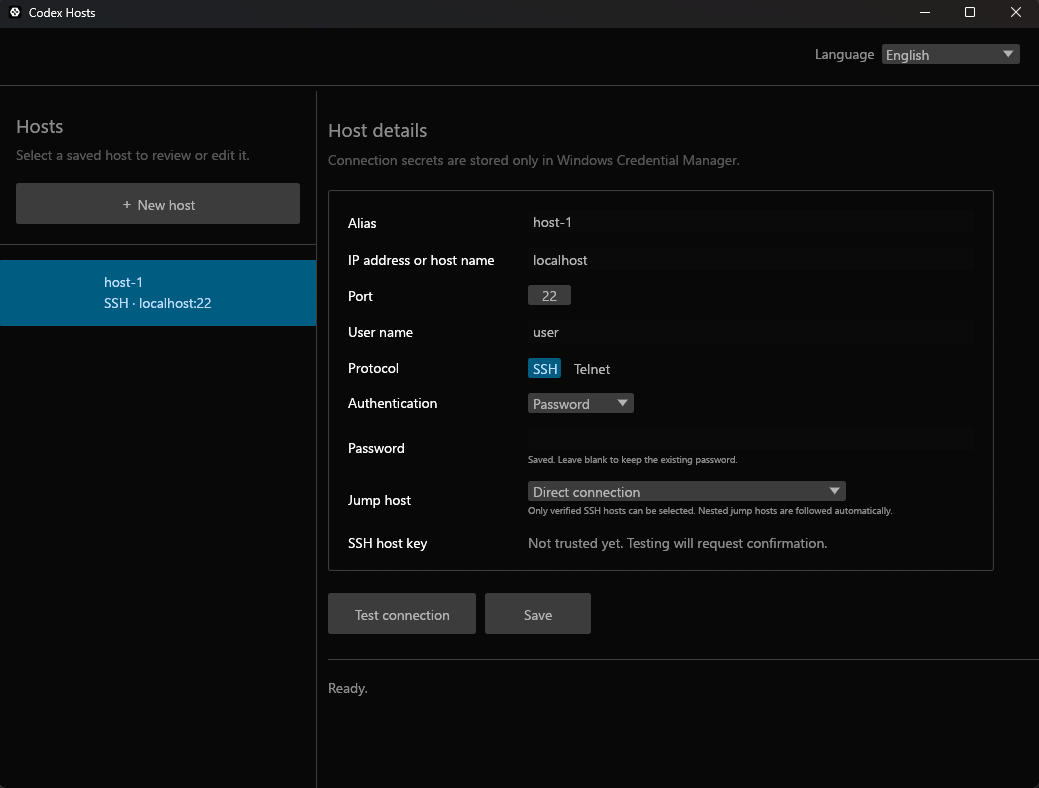
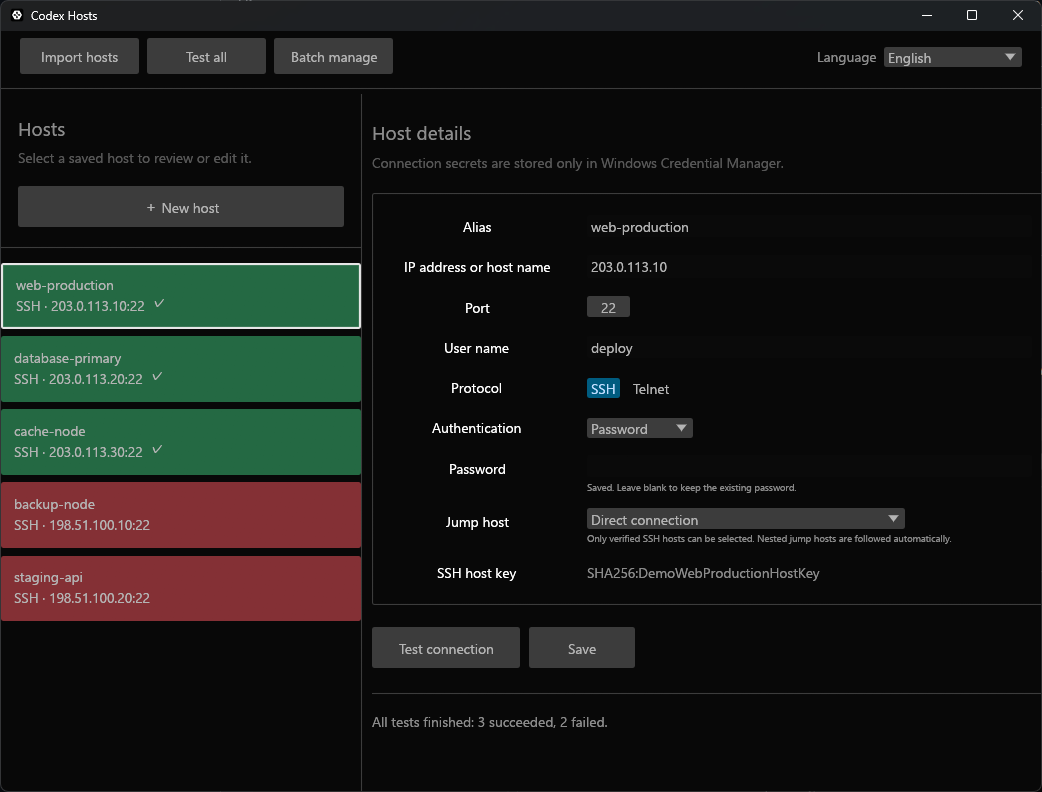
feat: improve batch selection and host layout

diff --git a/src/ui.rs b/src/ui.rs
@@ -576,6 +576,14 @@ impl HostsApp {
         self.status = self.catalog.text("batch_select_hint").to_owned();
     }
 
+    fn toggle_batch_selection(&mut self) {
+        if batch_all_selected(&self.store.hosts, &self.batch_selected) {
+            self.batch_selected.clear();
+        } else {
+            self.batch_selected = self.store.hosts.iter().map(|host| host.id).collect();
+        }
+    }
+
     fn cancel_batch_mode(&mut self) {
         self.batch_mode = false;
         self.batch_selected.clear();
@@ -813,6 +821,7 @@ impl HostsApp {
         let mut open_import = false;
         let mut test_all = false;
         let mut begin_batch = false;
+        let mut toggle_batch_selection = false;
         let mut delete_batch = false;
         let mut export_batch = false;
         let mut cancel_batch = false;
@@ -822,6 +831,21 @@ impl HostsApp {
             |ui| {
                 ui.add_space(18.0);
                 if self.batch_mode {
+                    let all_selected = batch_all_selected(&self.store.hosts, &self.batch_selected);
+                    if ui
+                        .add_enabled(
+                            !self.store.hosts.is_empty(),
+                            egui::Button::new(self.catalog.text(if all_selected {
+                                "deselect_all"
+                            } else {
+                                "select_all"
+                            }))
+                            .min_size([92.0, 34.0].into()),
+                        )
+                        .clicked()
+                    {
+                        toggle_batch_selection = true;
+                    }
                     if ui
                         .add(
                             egui::Button::new(self.catalog.text("delete"))
@@ -922,6 +946,9 @@ impl HostsApp {
         if begin_batch {
             self.begin_batch_mode();
         }
+        if toggle_batch_selection {
+            self.toggle_batch_selection();
+        }
         if delete_batch {
             self.request_batch_delete();
         }
@@ -1006,10 +1033,8 @@ impl HostsApp {
                             } else {
                                 ""
                             };
-                            let selection_marker = if selected { "▶ " } else { "" };
                             let text = RichText::new(format!(
-                                "{}{}\n{} · {}:{}{}",
-                                selection_marker,
+                                "{}\n{} · {}:{}{}",
                                 alias,
                                 protocol.stable_name().to_ascii_uppercase(),
                                 address,
@@ -1017,7 +1042,7 @@ impl HostsApp {
                                 verified_marker
                             ))
                             .line_height(Some(20.0));
-                            let mut button = egui::Button::new(text);
+                            let mut button = egui::Button::new(()).left_text(text);
                             if let Some(fill) = host_row_fill(test_state) {
                                 button = button.fill(fill);
                             }
@@ -1025,7 +1050,11 @@ impl HostsApp {
                                 button = button.stroke(egui::Stroke::new(2.0, SELECTED_ROW_STROKE));
                             }
                             let size = [ui.available_width(), 62.0];
-                            ui.add_sized(size, button)
+                            ui.scope(|ui| {
+                                ui.spacing_mut().button_padding.x = 12.0;
+                                ui.add_sized(size, button)
+                            })
+                            .inner
                         })
                         .inner;
                     if response.clicked() || response.secondary_clicked() {
@@ -1100,8 +1129,8 @@ impl HostsApp {
                 .show(ui, |ui| {
                     egui::Grid::new("host_form")
                         .num_columns(2)
-                        .min_col_width(150.0)
-                        .spacing([20.0, 14.0])
+                        .min_col_width(160.0)
+                        .spacing([24.0, 14.0])
                         .show(ui, |ui| {
                             form_label(ui, catalog.text("alias"));
                             ui.add(
@@ -1177,7 +1206,7 @@ impl HostsApp {
                             if editor.profile.protocol == Protocol::Telnet
                                 || editor.profile.ssh_auth == SshAuth::Password
                             {
-                                form_label(ui, catalog.text("password"));
+                                form_label_with_hint(ui, catalog.text("password"));
                                 ui.vertical(|ui| {
                                     ui.add(
                                         egui::TextEdit::singleline(&mut *editor.password)
@@ -1192,7 +1221,7 @@ impl HostsApp {
                                 });
                                 ui.end_row();
                             } else {
-                                form_label(ui, catalog.text("private_key"));
+                                form_label_with_hint(ui, catalog.text("private_key"));
                                 ui.vertical(|ui| {
                                     ui.add(
                                         egui::TextEdit::singleline(
@@ -1204,7 +1233,7 @@ impl HostsApp {
                                 });
                                 ui.end_row();
 
-                                form_label(ui, catalog.text("key_passphrase"));
+                                form_label_with_hint(ui, catalog.text("key_passphrase"));
                                 ui.vertical(|ui| {
                                     ui.add(
                                         egui::TextEdit::singleline(&mut *editor.key_passphrase)
@@ -1221,7 +1250,7 @@ impl HostsApp {
                             }
 
                             if editor.profile.protocol == Protocol::Ssh {
-                                form_label(ui, catalog.text("host_chain"));
+                                form_label_with_hint(ui, catalog.text("host_chain"));
                                 ui.vertical(|ui| {
                                     let selected_name = editor
                                         .profile
@@ -1644,7 +1673,7 @@ impl eframe::App for HostsApp {
         self.top_bar(ui, &context);
         ui.separator();
         let body = ui.available_rect_before_wrap();
-        let divider_x = body.min.x + 300.0;
+        let divider_x = body.min.x + 340.0;
         let sidebar = egui::Rect::from_min_max(body.min, egui::pos2(divider_x, body.max.y));
         let editor = egui::Rect::from_min_max(egui::pos2(divider_x + 10.0, body.min.y), body.max);
         ui.scope_builder(
@@ -1755,8 +1784,28 @@ fn batch_has_external_dependents(hosts: &[HostProfile], selected: &HashSet<Uuid>
     })
 }
 
+fn batch_all_selected(hosts: &[HostProfile], selected: &HashSet<Uuid>) -> bool {
+    !hosts.is_empty() && hosts.iter().all(|host| selected.contains(&host.id))
+}
+
 fn form_label(ui: &mut egui::Ui, text: &str) {
-    ui.label(RichText::new(text).strong());
+    ui.add_sized(
+        [160.0, 24.0],
+        egui::Label::new(RichText::new(text).strong()).halign(egui::Align::Min),
+    );
+}
+
+fn form_label_with_hint(ui: &mut egui::Ui, text: &str) {
+    ui.allocate_ui_with_layout(
+        egui::vec2(160.0, 48.0),
+        egui::Layout::top_down(egui::Align::Min),
+        |ui| {
+            ui.add_sized(
+                [160.0, 24.0],
+                egui::Label::new(RichText::new(text).strong()).halign(egui::Align::Min),
+            );
+        },
+    );
 }
 
 fn configure_fonts(context: &egui::Context) {
@@ -1816,6 +1865,21 @@ mod tests {
         target.jump_host = Some(jump.id);
         let selected = HashSet::from([jump.id]);
         assert!(batch_has_external_dependents(&[jump, target], &selected));
+    }
+
+    #[test]
+    fn batch_select_all_requires_every_saved_host() {
+        let first = HostProfile::default();
+        let second = HostProfile::default();
+        assert!(!batch_all_selected(&[], &HashSet::new()));
+        assert!(!batch_all_selected(
+            &[first.clone(), second.clone()],
+            &HashSet::from([first.id])
+        ));
+        assert!(batch_all_selected(
+            &[first.clone(), second.clone()],
+            &HashSet::from([first.id, second.id])
+        ));
     }
 
     #[test]
